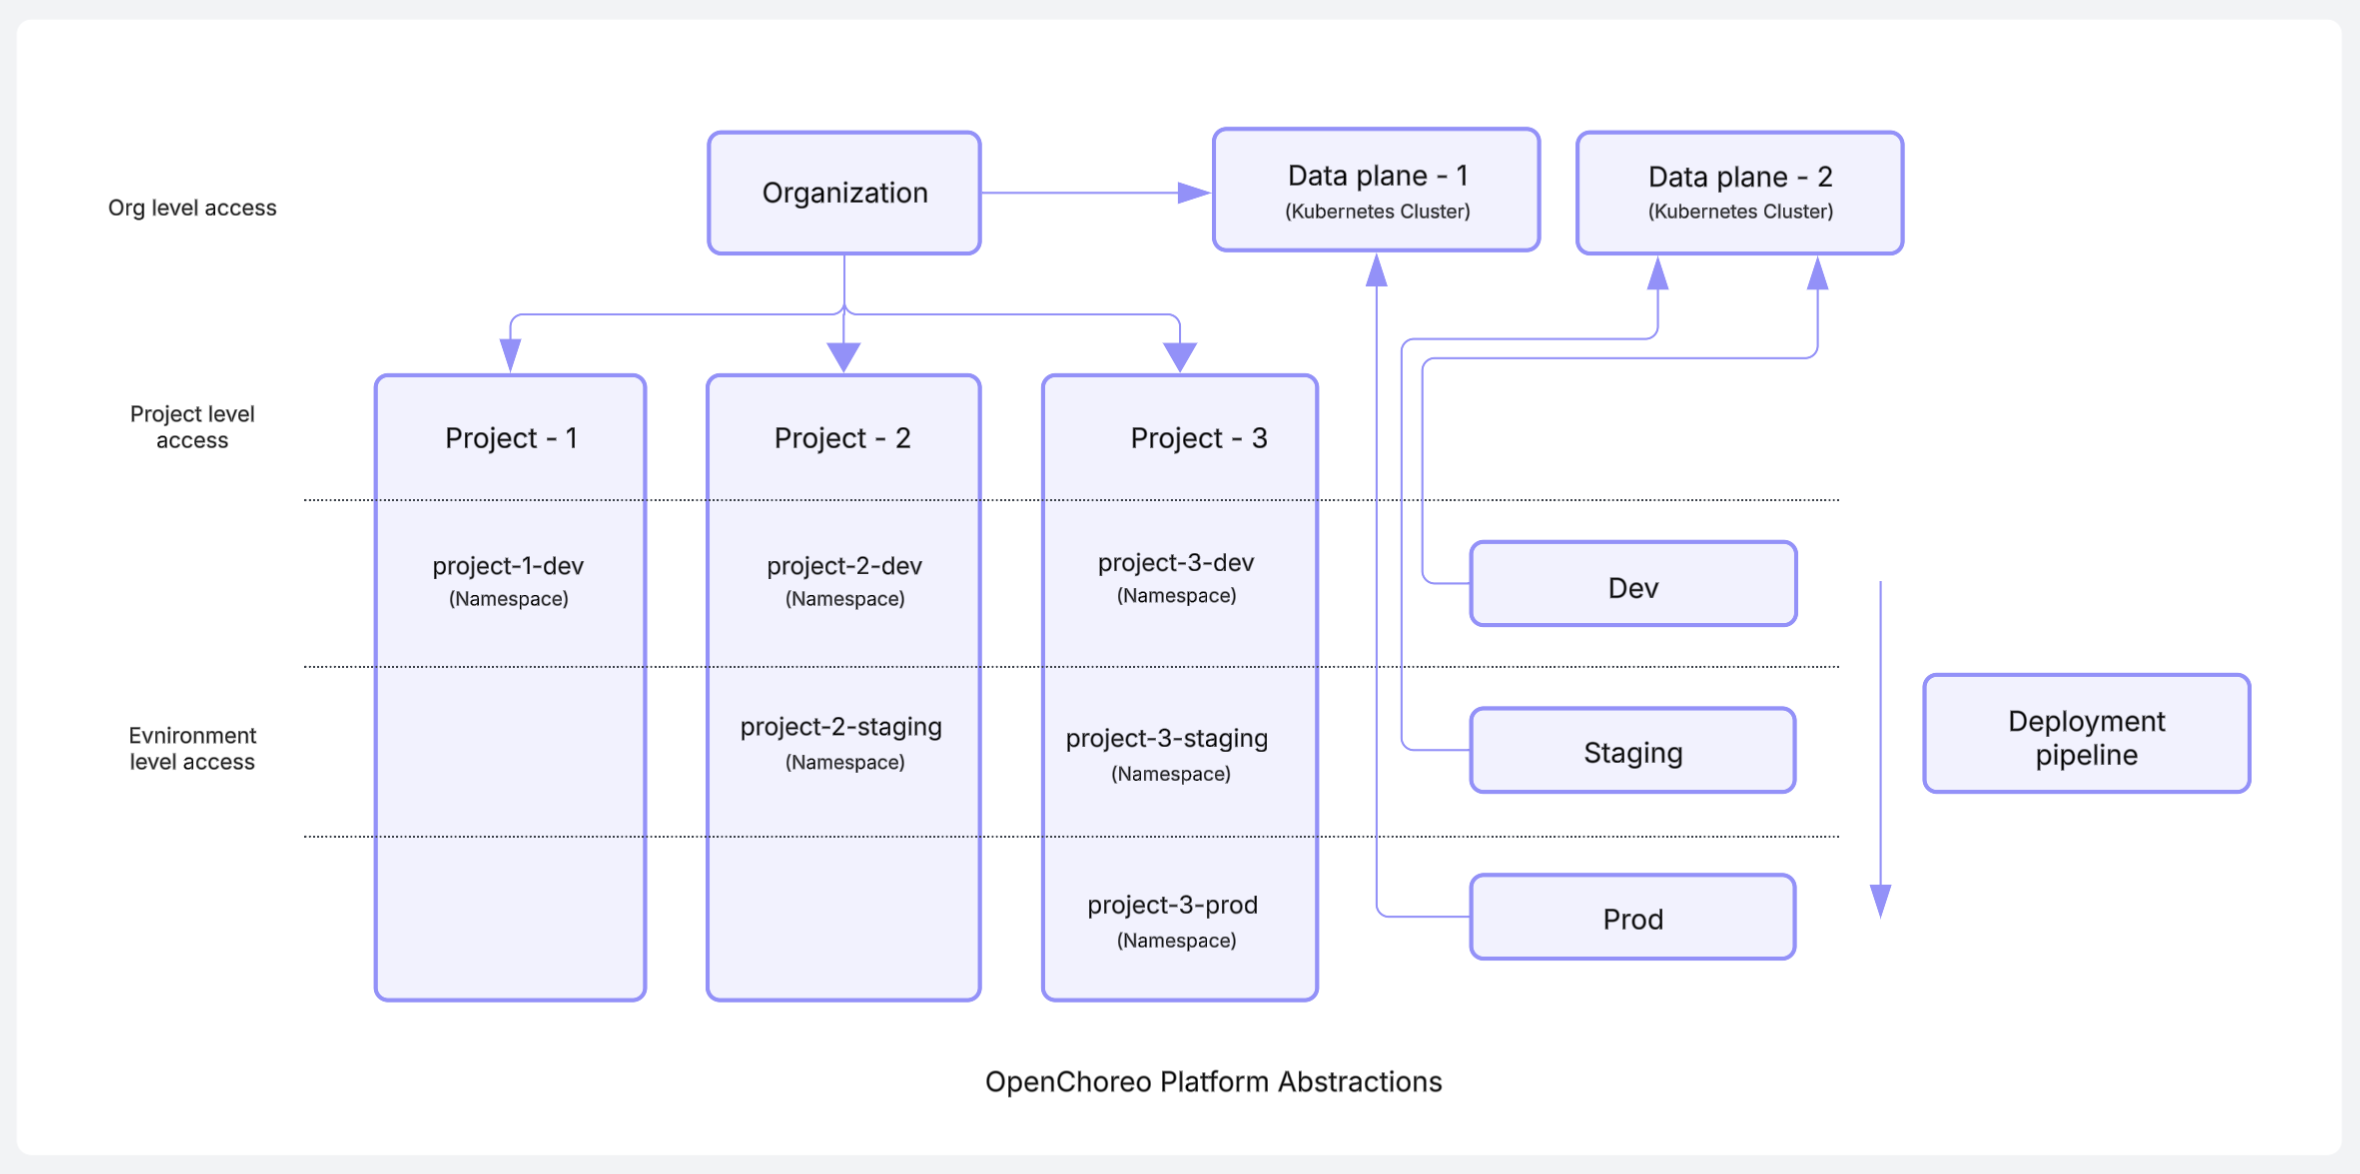
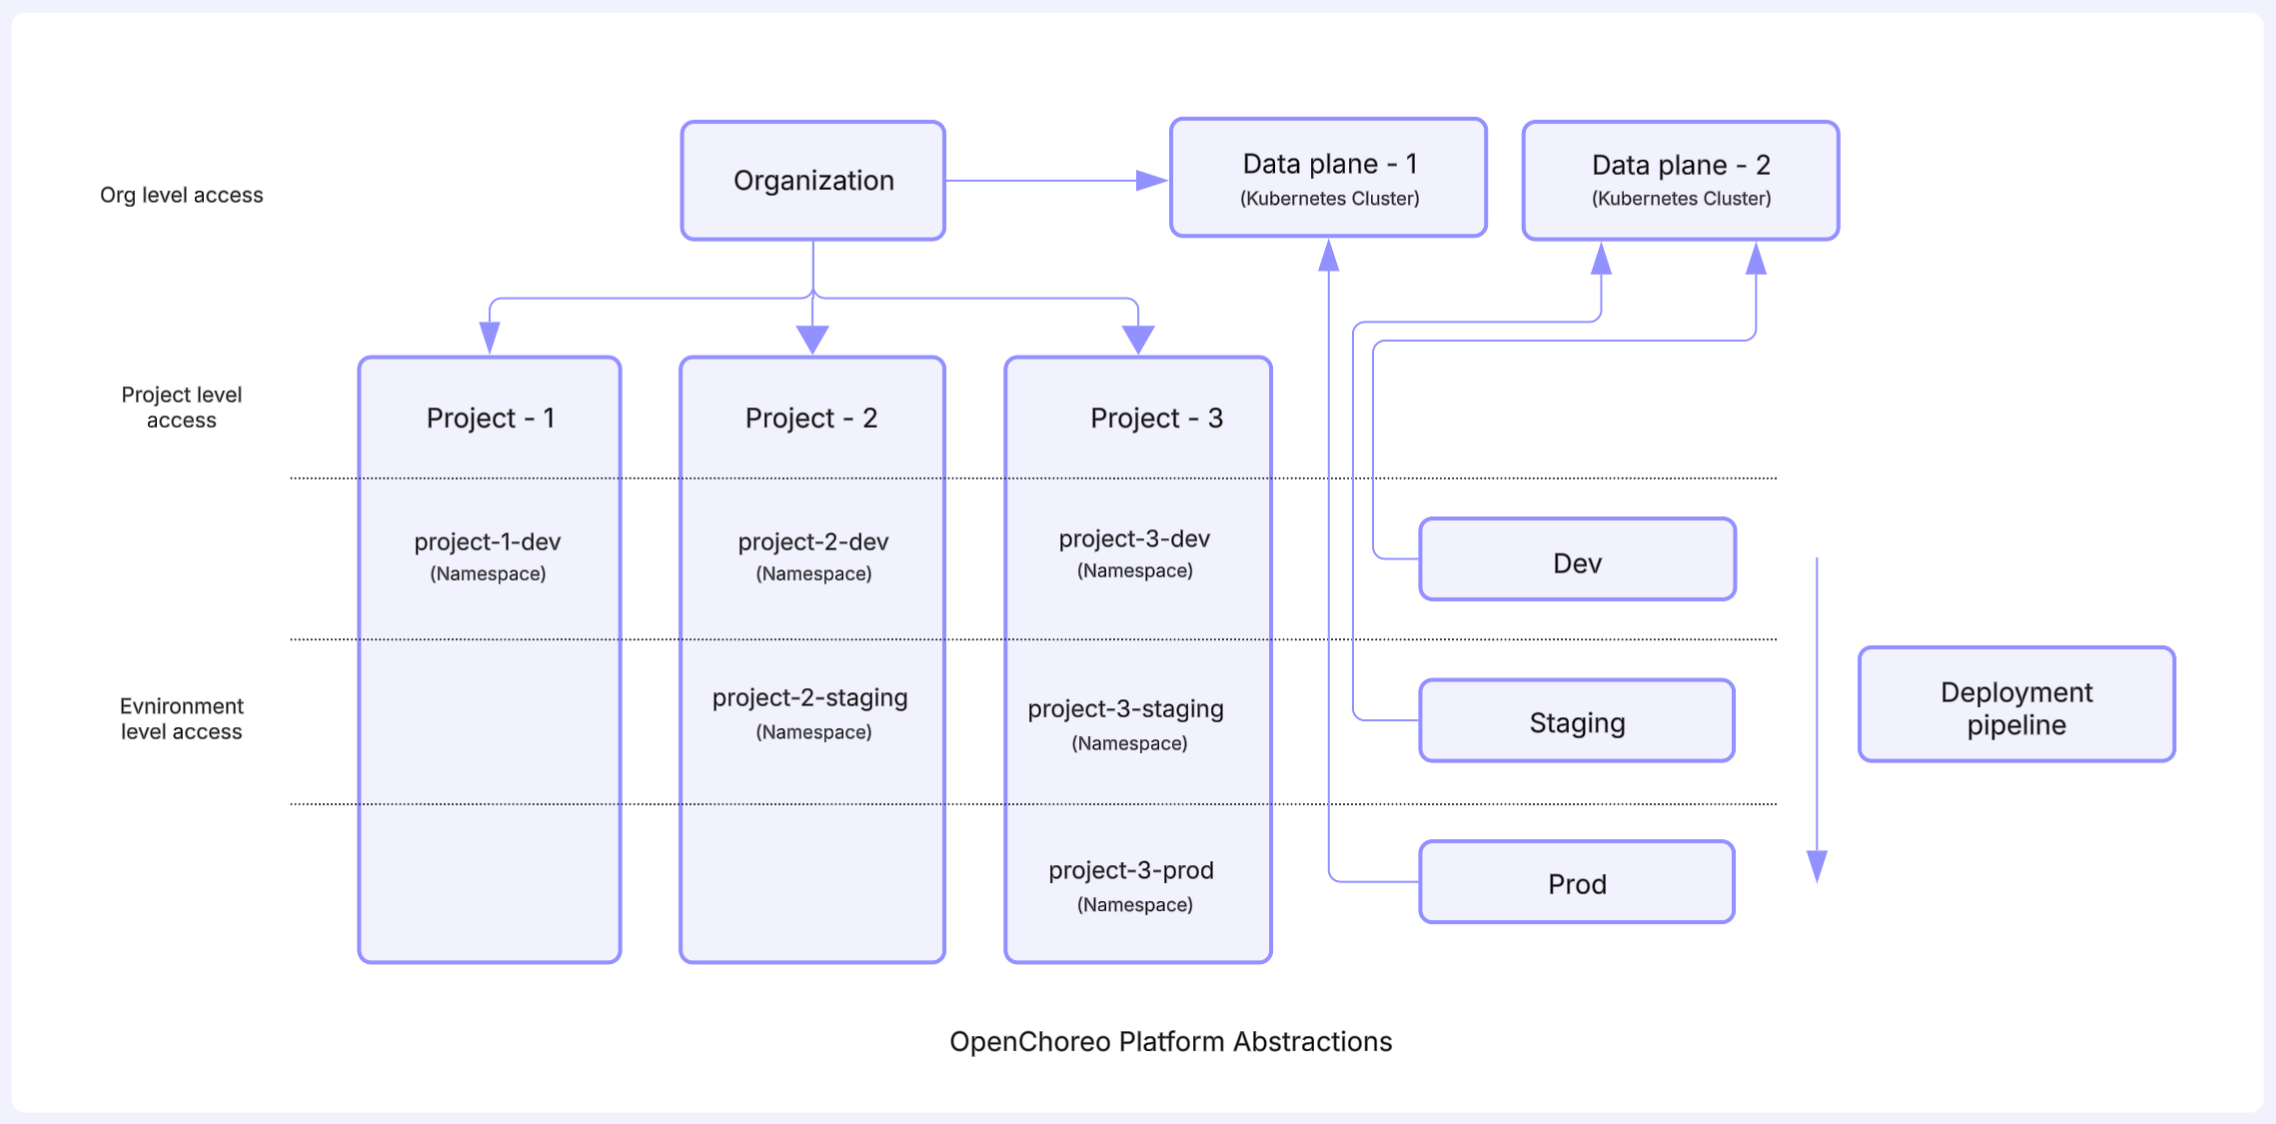
Integrate Binura's OpenChoreo image

diff --git a/README.md b/README.md
@@ -121,7 +121,7 @@ These abstractions provide the following benefits for businesses to build & oper
 In this section, we explain how the OpenChoreo abstractions for platform engineering, code & team organization, software architecture, software engineering and operations are mapping to Kubernetes abstractions and a set of CNCF and other tools that are used to ensure the higher level abstractions are properly maintained.
 
 <div align="left">
-  <img src="./docs/images/openchoreo-overall-architecture.png" alt="OpenChoreo Architecture" width="800"/>
+  <img src="./docs/images/openchoreo-diagram-v1.webp" alt="OpenChoreo Architecture" width="800"/>
 </div>
 </br>
 
